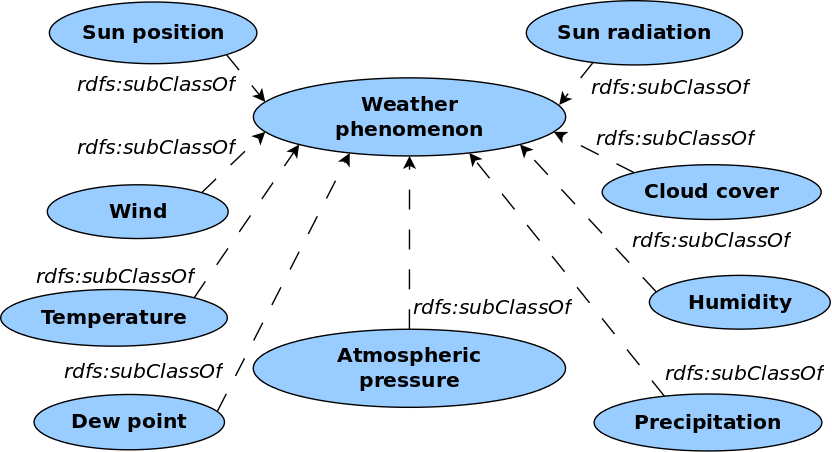
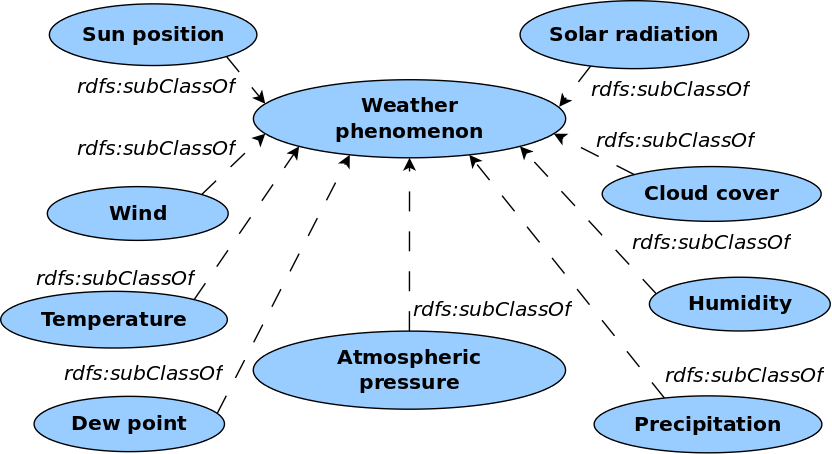
changes

diff --git a/diplomarbeit/chapters/thinkhomeweather_ontology.tex b/diplomarbeit/chapters/thinkhomeweather_ontology.tex
@@ -21,7 +21,7 @@ Based on these findings, this chapter describes the process of building the \thi
 Specification, the first step proposed by \methontology, aims at creating an \emph{ontology specification document} using natural language. That document must include at least the intended purpose of the ontology, the level of 
 formality and the ontology's scope.
 
-The contents of the ontology specification document are based on the knowledge acquired in the previous chapters about related work (chapter \ref{ch:existing_work}) and weather data (chapter \ref{ch:weather_data}). Competency questions are taken from section \label{sec:weather_information}.
+The contents of the ontology specification document are based on the knowledge acquired in the previous chapters about related work (chapter \ref{ch:existing_work}) and weather data (chapter \ref{ch:weather_data}). Competency questions are taken from section \ref{sec:weather_information}.
 
 % TODO ensure there are no problematic page breaks inside this box (e.g. between the headline 'Scope:' and the first bullet point)
 \begin{mdframed}
@@ -49,7 +49,7 @@ The contents of the ontology specification document are based on the knowledge a
 \textbf{Scope}:
 
 \begin{itemize}
-  \item \emph{Weather phenomenon}: Represents a certain weather element. Relevant weather elements are temperature, humidity, dew point, wind speed and direction, precipitation intensity and probability, atmospheric pressure, cloud cover, sun radiation, and the sun's position.
+  \item \emph{Weather phenomenon}: Represents a certain weather element. Relevant weather elements are temperature, humidity, dew point, wind speed and direction, precipitation intensity and probability, atmospheric pressure, cloud cover, solar radiation, and the sun's position.
   \item \emph{Weather condition}: Overall state of the weather: sun, light clouds, partly cloudy, cloudy, fog, rain, snow, sleet, thunder.
   \item \emph{Weather state}: Summarizes all weather phenomena for a certain time. 
   \item \emph{Weather report}: Summarizes all data aquired at a certain time about the current weather or the weather some time in the future. Exactly one weather state is linked to each weather report.
@@ -107,7 +107,8 @@ In the conceptualization step, the domain knowledge is structured in a conceptia
 
 \subsection{Glossary of Terms}
 
-% TODO mention: in alphabetical order
+The terms in this table are arranged in alphabetical order.
+
 % TODO repeat header on every page?
 % TODO references between glossary items; e.g. from 'civil twilight' to 'twilight'
 % TODO add sub-concepts for weather state
@@ -209,7 +210,7 @@ In the conceptualization step, the domain knowledge is structured in a conceptia
   \hline
   Night & Sun is more than 18 degrees below horizon; see \emph{Sun position}. & Concept \\
   \hline
-  No radiation & No sun radiation ($0 W/m^2$); see \emph{Solar radiation}. & Concept \\
+  No radiation & No solar radiation ($0 W/m^2$); see \emph{Solar radiation}. & Concept \\
   \hline
   No rain & No precipitation (because the chance or the intensity of precipitation is 0); see \emph{Precipitation}. & Concept \\
   \hline
@@ -289,17 +290,17 @@ In the conceptualization step, the domain knowledge is structured in a conceptia
   \hline
   Very moist & Relative humidity of more than 80 percent; see \emph{Humidity}. & Concept \\
   \hline
-  Weather condition & & \\ % TODO
+  Weather condition & Overall state of the weather, represented by (a combination of) these individuals: \emph{Sun}, \emph{Light clouds}, \emph{Partly cloudy}, \emph{Cloudy}, \emph{Fog}, \emph{Rain}, \emph{Snow}, \emph{Sleet}, and \emph{Thunder}. & Concept \\
   \hline
-  Weather phenomenon & & \\ % TODO
+  Weather phenomenon & Represents a certain weather element. Relevant weather elements are \emph{Temperature}, \emph{Humidity}, \emph{Dew point}, \emph{Wind}, \emph{Precipitation}, \emph{Atmospheric pressure}, \emph{Cloud cover}, \emph{Solar radiation}, and the \emph{Sun position}. & Concept \\
   \hline
-  Weather report & & \\ % TODO
+  Weather report & Summarizes all data aquired at a certain time about the current weather or the weather some time in the future. Exactly one weather state is linked to each weather report. & Concept \\ % TODO related concepts
   \hline
-  Weather report from sensor & A weather report containing data coming from one or more sensors. & Concept \\
+  Weather report from sensor & A weather report containing data coming from one or more sensors; see \emph{Weather report} and \emph{Sensor source}. & Concept \\
   \hline
-  Weather report from service & A weather report containing data coming from an Internet weather service. & Concept \\
+  Weather report from service & A weather report containing data coming from an Internet weather service; see \emph{Weather report} and \emph{Service source}. & Concept \\
   \hline
-  Weather report source & A source for weather data, either a set of weather sensors or an Internet weather service. & Concept \\
+  Weather report source & A source for weather data, either a set of weather sensors or an Internet weather service; see \emph{Weather report}, \emph{Sensor source} and \emph{Service source}. & Concept \\
   \hline
   Weather state & & \\
   \hline
@@ -364,10 +365,10 @@ The only sub-concept of \emph{Weather phenomenon} that does not have any sub-con
   \includegraphics[scale=.3]{figures/diagrams/sun-position.png}
 \end{center}
 
-\paragraph{Sun radiation}
+\paragraph{Solar radiation}
 
 \begin{center}
-  \includegraphics[scale=.3]{figures/diagrams/sun-radiation.png}
+  \includegraphics[scale=.3]{figures/diagrams/solar-radiation.png}
 \end{center}
 
 \paragraph{Temperature}
@@ -392,9 +393,9 @@ There are two main attributes for a \emph{Weather report}: Its \emph{Start date}
 
 The concepts \emph{Short range forecast}, \emph{Medium range forecast} and \emph{Long range forecast} each do have sub-concepts which have been omitted from the above diagram for clarity. These sub-concepts are:
 \begin{itemize}
-  \item \emph{Short range forecast}: \emph{Forecast 1 hour weather report}, \emph{Forecast 2 hours weather report} and \emph{Forecast 3 hours weather report} for weather reports describing the weather in one, two and three hours.
-  \item \emph{Medium range forecast}: \emph{Forecast 6 hour weather report} and \emph{Forecast 9 hours weather report} for weather reports describing the weather in 6 and 9 hours.
-  \item \emph{Long range forecast}: \emph{Forecast 12 hour weather report}, \emph{Forecast 15 hours weather report}, \emph{Forecast 18 hours weather report}, \emph{Forecast 21 hours weather report} and \emph{Forecast 25 hours weather report} for weather reports describing the weather in 12, 15, 18, 21 and 24 hours.
+  \item \emph{Short range forecast}: \emph{Forecast 1 hour weather report}, \emph{Forecast 2 hours weather report} and \emph{Forecast 3 hours weather report} for weather reports describing the weather in one, two and three hours, respectively.
+  \item \emph{Medium range forecast}: \emph{Forecast 6 hour weather report} and \emph{Forecast 9 hours weather report} for weather reports describing the weather in 6 and 9 hours, respectively.
+  \item \emph{Long range forecast}: \emph{Forecast 12 hour weather report}, \emph{Forecast 15 hours weather report}, \emph{Forecast 18 hours weather report}, \emph{Forecast 21 hours weather report} and \emph{Forecast 25 hours weather report} for weather reports describing the weather in 12, 15, 18, 21 and 24 hours, respectively.
 \end{itemize}
 
 \subsubsection{Weather report source}
@@ -838,7 +839,7 @@ The \emph{Observation time} of a \emph{Weather report} is specified using an \em
 The \emph{Time Zone Ontology} that comes with \emph{OWL-Time} is not used by \thinkhomeweather. All times must be given in UTC.
 
 % TODO reference unit ontology
-All instances of \emph{Weather phenomenon} have one or more attributes specifying details about the weather element that is being represented (refer to section \label{subsec:instance_attribute_tables} for details about these attributes). Each of these attributes assigns a numerical value to the \emph{Weather phenomenon}. To avoid confusion by the use of different units for one attribute (e.g. $^\circ$F and $^\circ$C for the \emph{Temperature value}), concepts, attributes and instances from the \emph{Measurement Units Ontology} (MUO) are re-used to add unit information. MUO forces the use of a certain pattern that is shown in figure . % TODO reference figure
+All instances of \emph{Weather phenomenon} have one or more attributes specifying details about the weather element that is being represented (refer to section \ref{subsec:instance_attribute_tables} for details about these attributes). Each of these attributes assigns a numerical value to the \emph{Weather phenomenon}. To avoid confusion by the use of different units for one attribute (e.g. $^\circ$F and $^\circ$C for the \emph{Temperature value}), concepts, attributes and instances from the \emph{Measurement Units Ontology} (MUO) are re-used to add unit information. MUO forces the use of a certain pattern that is shown in figure . % TODO reference figure
 
 % TODO reference WGS-84
 The \emph{Basic Geo (WGS84 lat/long) Vocabulary} by the \emph{W3C Semantic Web Interest Group} defines the concept \emph{Point} together with the attributes \emph{lat} (latitude), \emph{long} (longitude) and \emph{alt} (altitude). Furthermore, the attribute \emph{location} offers the possibility of connecting a \emph{Point} to any instance of some concept. See figure ... for the structure that results from this. % TODO reference figure

diff --git a/diplomarbeit/chapters/development_approaches.tex b/diplomarbeit/chapters/development_approaches.tex
@@ -83,7 +83,7 @@ Sources of knowledge are experts, books, handbooks, figures, tables and even oth
 \begin{figure}
   \includegraphics[width=\textwidth]{figures/methontology_tasks.png}
   \caption{Tasks of the conceptualization activity according to \methontology \cite{MethontologyLegal}}
-  \label{fig:methontology1}
+  \label{fig:methontology2}
 \end{figure}
 
 The state of \emph{conceptualization} consists of several tasks as shown in figure \ref{fig:methontology2} \cite{MethontologyLegal}. Again, the figure shows the tasks in a sequential manner. However, as \methontology uses an evolutional process model, the steps will be performed numerous times.

diff --git a/diplomarbeit/chapters/weather_data.tex b/diplomarbeit/chapters/weather_data.tex
@@ -25,7 +25,7 @@ These competency questions that shall be answered by \thinkhome's weather ontolo
   \item When will it outside be colder than inside the house? When will it be warmer?
 \end{itemize}
 
-These competency questions will again be used in section \label{sec:ontology_specification} for creating the \emph{Ontology requirements specification document}.
+These competency questions will again be used in section \ref{sec:ontology_specification} for creating the \emph{Ontology requirements specification document}.
 
 % TODO references
 % TODO replace "measurement readings" by other term?

diff --git a/diplomarbeit/thesis.tex b/diplomarbeit/thesis.tex
@@ -161,6 +161,8 @@
 
 % TODO competence questions -> competency questions
 
+% TODO sun radiation -> solar radiation
+
 %%%%%%%%%%%%%%%%%%%%%%%%%%%%%%%%%%%%%%%%%
 %%% BACKMATTER %%%%%%%%%%%%%%%%%%%%%%%%%%
 %%%%%%%%%%%%%%%%%%%%%%%%%%%%%%%%%%%%%%%%%
